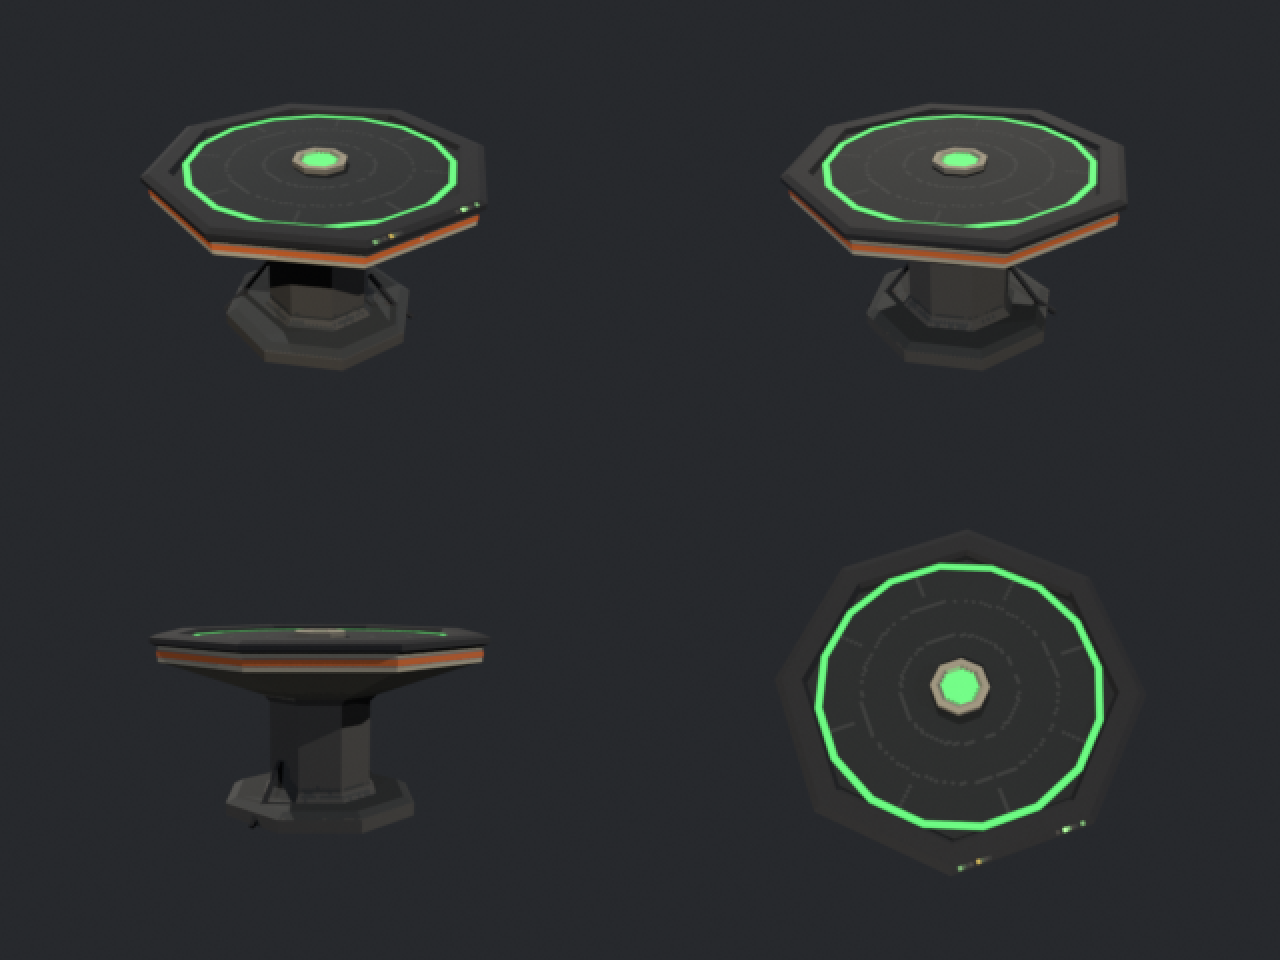
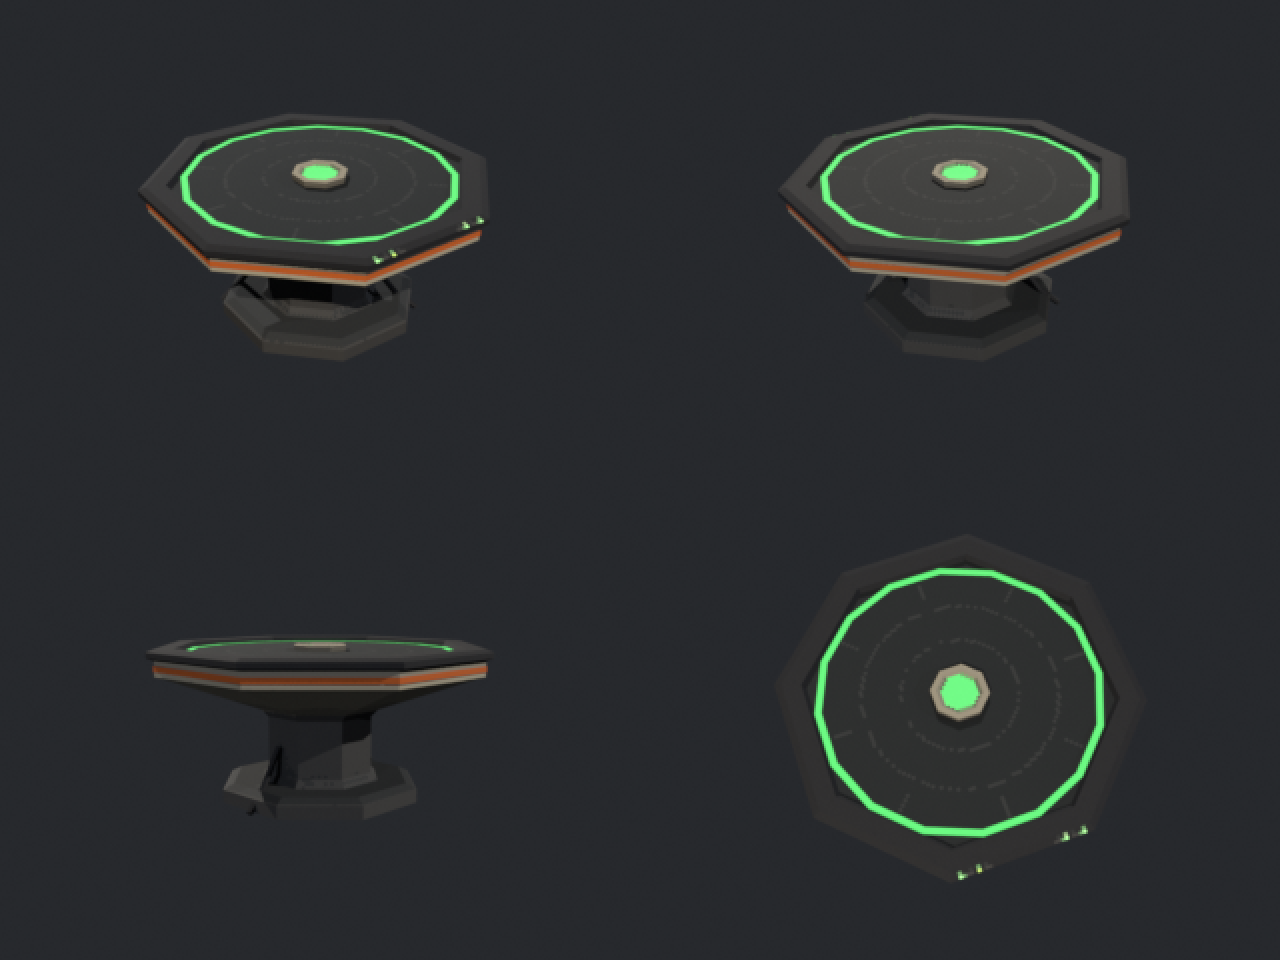
Jump catches every press; the lever's hold forgives a slip; no dais, a lower chart table
- Jump was read with is_action_just_pressed on the 30 Hz movement tick, so most presses fell
  between ticks (0 of 10 in --check-jump); a press is now kept 0.2 s for the tick (10 of 10)
- A hold survives the crosshair slipping off for 0.3 s
- The dais is gone (crew caught on its step); the chart table stands on the deck, its glass at
  0.8 m to look down on
- Dev: --check-jump and --check-lever

diff --git a/art/blender/bridge.py b/art/blender/bridge.py
@@ -439,13 +439,13 @@ def chair():
 
 @asset("br_chart_table", "bridge", texture=256, colors=32, ao=0.5, angles=((-35, 30), (145, 30), (90, 10), (-20, 70)))
 def chart_table():
-    """The chart table at the bridge's heart (GDD §5, §6), on the command dais: the sector chart
-    for the whole crew to stand round. A waist-high octagonal table in the consoles' beige, on a
-    dark column flaring out from a steel plinth; a rubber bumper round its rim. Its top is a dark
-    glass well with etched range rings, a glowing emitter ring at its edge and the projector's lens
-    at its centre; the hologram itself is the game's (`SOCKET_holo`, on the lens). Push buttons on
-    the rim's aft side and a stencil, CHART, on its aft face. The emitter ring and lens glow green. Faces -Y like the consoles (aft in
-    the game), where the crew comes up from the corridor.
+    """The chart table at the bridge's heart (GDD §5, §6), standing on the deck: the sector chart
+    for the whole crew to stand round. A low octagonal table (its glass at 0.8 m, to look down on)
+    on a dark column flaring out from a steel plinth; a beige band and a rubber bumper round its
+    rim. Its top is a dark glass well with etched range rings, a glowing green emitter ring at its
+    edge and the projector's lens at its centre; the hologram itself is the game's (`SOCKET_holo`,
+    on the lens). Push buttons on the rim's aft side and a stencil, CHART, on its aft face. Faces
+    -Y like the consoles (aft in the game), where the crew comes up from the corridor.
     """
     k = _materials()
     dk = _decals()
@@ -454,19 +454,21 @@ def chart_table():
     d = Mesh("br_chart_table_decals")
     texts = []
     eighth = math.pi / 8
-    top = 0.97
+    top = 0.8
     # Plinth, column and the skirt flaring out under the top.
     m.lathe([(0.56, 0.0), (0.56, 0.07), (0.5, 0.1), (0.34, 0.1)], k["dark_steel"], sides=8, angle_offset=eighth,
             cap_start=False, cap_end=False)
-    m.lathe([(0.34, 0.1), (0.3, 0.14), (0.3, 0.62), (0.34, 0.66)], k["casing_dark"], sides=8, angle_offset=eighth,
-            cap_start=False, cap_end=False)
-    m.lathe([(0.34, 0.66), (0.84, 0.84), (0.9, 0.86)], k["casing"], sides=8, angle_offset=eighth,
+    m.lathe([(0.34, 0.1), (0.3, 0.14), (0.3, top - 0.35), (0.34, top - 0.31)], k["casing_dark"], sides=8,
+            angle_offset=eighth, cap_start=False, cap_end=False)
+    m.lathe([(0.34, top - 0.31), (0.84, top - 0.13), (0.9, top - 0.11)], k["casing"], sides=8, angle_offset=eighth,
             cap_start=False, cap_end=False)
     # The rim: a casing band with an orange stripe, the rubber bumper over it.
-    m.lathe([(0.9, 0.86), (0.9, 0.94)], k["casing"], sides=8, angle_offset=eighth, cap_start=False, cap_end=False)
-    m.lathe([(0.905, 0.885), (0.905, 0.915)], k["orange"], sides=8, angle_offset=eighth, cap_start=False, cap_end=False)
-    m.lathe([(0.9, 0.94), (0.94, 0.955), (0.94, 0.985), (0.9, 1.0), (0.8, 1.0), (0.78, top)], k["rubber"], sides=8,
-            angle_offset=eighth, cap_start=False, cap_end=False)
+    m.lathe([(0.9, top - 0.11), (0.9, top - 0.03)], k["casing"], sides=8, angle_offset=eighth, cap_start=False,
+            cap_end=False)
+    m.lathe([(0.905, top - 0.085), (0.905, top - 0.055)], k["orange"], sides=8, angle_offset=eighth, cap_start=False,
+            cap_end=False)
+    m.lathe([(0.9, top - 0.03), (0.94, top - 0.015), (0.94, top + 0.015), (0.9, top + 0.03), (0.8, top + 0.03),
+             (0.78, top)], k["rubber"], sides=8, angle_offset=eighth, cap_start=False, cap_end=False)
     # The glass well, and the lens in its middle.
     m.lathe([(0.78, top), (0.0, top)], glass, sides=8, angle_offset=eighth, cap_start=False, cap_end=False)
     m.lathe([(0.15, top), (0.15, top + 0.03), (0.12, top + 0.035), (0.1, top + 0.02)], k["steel"], sides=8,
@@ -497,17 +499,17 @@ def chart_table():
     # Push buttons on the rim's aft flat, either side of the middle; the stencil on the band below.
     slope = Vector((0, -0.4, 1)).normalized()
     for x in (-0.24, 0.24):
-        rim = (Vector((x, -0.865, 0.992)), slope, Vector((0, 1, 0.4)).normalized())
+        rim = (Vector((x, -0.865, top + 0.022)), slope, Vector((0, 1, 0.4)).normalized())
         buttons(d, dk, rim, (0, 0), 4, 1, pitch=0.042, pattern=(0, 2, 1, 2) if x < 0 else (2, 4, 2, 0))
     face = 0.9 * math.cos(eighth)
-    texts.append(label(dk, "CHART", 0.035, "cream", frame((0, -face - 0.001, 0.9), (0, -1, 0))))
-    # Cables from the column down into the dais.
+    texts.append(label(dk, "CHART", 0.035, "cream", frame((0, -face - 0.001, top - 0.07), (0, -1, 0))))
+    # Cables from the column down into the deck.
     cables(m, k, [[(0.2, -0.22, 0.3), (0.32, -0.3, 0.1), (0.42, -0.36, 0.0)],
                   [(-0.22, 0.2, 0.34), (-0.34, 0.3, 0.12), (-0.46, 0.34, 0.0)]])
     m.subdivide(0.6)
     low = m.to_object()
     collider = Mesh("br_chart_table_col-colonly")
-    collider.lathe([(0.0, 0.0), (0.92, 0.0), (0.92, 1.0), (0.0, 1.0)], mats.plain("collider", (1, 0, 1)), sides=8,
+    collider.lathe([(0.0, 0.0), (0.92, 0.0), (0.92, top + 0.03), (0.0, top + 0.03)], mats.plain("collider", (1, 0, 1)), sides=8,
                    angle_offset=eighth, cap_start=False, cap_end=False)
     holo = _socket("holo", (0, 0, top + 0.03))
     return Model(low=low, decals=[d.to_object()] + texts, extras=[collider.to_object(), holo])

diff --git a/docs/TECH.md b/docs/TECH.md
@@ -224,7 +224,7 @@ deep-space/
   - A test script can't name classes that reach the game's autoloads (they aren't there when it's compiled): it loads them at run time.
 - **Networking:** the multi-instance launch script with netfox's network simulator (latency and packet loss) turned on.
 - **Assets:** turntable previews are reviewed for every generated model; pose sheets (`tools/pose_sheet.py`) for every clip.
-- **Dev flags** for unattended checks (`game/core/dev.gd`): `--check-aim` stands the crew member in front of every terminal and checks the crosshair finds it; `--at`, `--look`, `--belt`, `--hold`, `--move` (with `--sprint`, `--crouch`), `--cuff` and `--lamp` set up a shot; `--take`, `--use` and `--throw` act a second or two in; `--run-seed` picks the run, `--scanned`, `--route` and `--jump` start with the scan done, the first jump plotted, or jumping a second in, and `--derelict` docks the sample derelict at the departure point; `--o2`, `--health` and `--battery` set the suit; `--view` looks from a fixed camera instead; `--screenshot` with `--frames`, `--shots`/`--shot-gap` takes one or a burst; `--wait-crew` holds the shot until that many crew are aboard.
+- **Dev flags** for unattended checks (`game/core/dev.gd`): `--check-aim` stands the crew member in front of every terminal and checks the crosshair finds it; `--check-jump` presses jump ten times and counts take-offs; `--check-lever` holds interact on what's aimed at (the Jump Lever, with `--at`, `--look` and `--route`) and says whether the jump began; `--at`, `--look`, `--belt`, `--hold`, `--move` (with `--sprint`, `--crouch`), `--cuff` and `--lamp` set up a shot; `--take`, `--use` and `--throw` act a second or two in; `--run-seed` picks the run, `--scanned`, `--route` and `--jump` start with the scan done, the first jump plotted, or jumping a second in, and `--derelict` docks the sample derelict at the departure point; `--o2`, `--health` and `--battery` set the suit; `--view` looks from a fixed camera instead; `--screenshot` with `--frames`, `--shots`/`--shot-gap` takes one or a burst; `--wait-crew` holds the shot until that many crew are aboard.
 - **QA tools** (`tools/`), for checking changes by eye in the real game and in Blender:
   - `shot.sh <out> <x,y,z,yaw,pitch>`: one frame from a fixed camera. For the player's own view, run the game with `-- --host --at=… --look=… [--hold/--cuff/--lamp] --screenshot=<out> --frames=150`.
   - `pair.sh <out> "<host flags>" "<client flags>"`: a host and a client on one machine; the host shoots once the client is aboard. With `--view` in the host flags it's the way to see a teammate's suit, held item, beam or glare.
@@ -318,3 +318,7 @@ deep-space/
   - The collar seals when nothing's docked, and both outer hatches are now solid while shut (they had no collider).
   - Tests (§8): sector map rules, determinism and a smoke test that plays a jump; `tools/test.sh` runs them.
 - **2026-10-14: The chart table** (GDD §17, decided 8). `br_chart_table` replaces `br_chair` on the dais (the chair's model stays built, unused). Its hologram (`ChartTable`, at `SOCKET_holo`) redraws the Run's chart every frame: an `ImmediateMesh` of lines for row rails, routes and a ring where the station is, a `Label3D` per charted node in the VT323 pixel font, a fading cone from the lens, and a dim green light. They share `hologram.gdshader` (unshaded, additive, scanlines, a `strength` for the flicker). What glows on the table is modelled with a glowing material, not decals: a 256 texture lost a thin ring to sampling.
+- **2026-10-14: Jumps, the lever's hold, the table lowered.**
+  - Jump (space) was read with `is_action_just_pressed` on the movement tick, which runs 30 times a second, fewer than frames, so most presses fell between ticks (`--check-jump`: 0 of 10 before, 10 of 10 after). A press is now kept 0.2 s for the tick (`JUMP_BUFFER`); pressed just before landing, it jumps on touching down. Other one-off presses are read in `_unhandled_input`, not on the tick.
+  - A hold (the Jump Lever) survives the crosshair slipping off for up to 0.3 s (`HOLD_SLACK`); the handle's box is small.
+  - The dais is gone from the bridge (crew caught on its 16 cm step; the character body doesn't step up), and the chart table is lower (glass at 0.8 m) on the deck. `br_dais` and `br_chair` stay built, unused.

diff --git a/docs/GDD.md b/docs/GDD.md
@@ -76,7 +76,7 @@ The home base is a jump-capable station on a single deck. It is warm, lit and hu
 | **Ops** | Crew status and comms | **Vitals board** (each crew member's heartbeat, O2 and last-known location); station cameras; PA |
 | **Engineering** | Power and drive status | Fuel and drive gauges; power distribution; breaker panel |
 
-The forward viewport looks out onto the system. At the bridge's centre, on the command dais, stands the **chart table**: a waist-high octagonal table whose glass top projects the sector chart as a green hologram, for the whole crew to stand round. It shows what the Nav Chart shows, laid out from the departure point (aft) rising to the boss (fore), like the way ahead through the viewport. It's display only (routes are plotted at the Helm), it flickers and drops out now and then, and it judders in a jump.
+The forward viewport looks out onto the system. At the bridge's centre stands the **chart table**: a low octagonal table (its glass at about thigh height, to look down on) whose glass top projects the sector chart as a green hologram, for the whole crew to stand round. It shows what the Nav Chart shows, laid out from the departure point (aft) rising to the boss (fore), like the way ahead through the viewport. It's display only (routes are plotted at the Helm), it flickers and drops out now and then, and it judders in a jump.
 
 **Rooms:**
 
@@ -453,7 +453,7 @@ The whole Sector 1 map is generated and playable. The boss node exists as a grey
 5. **The light is a helmet lamp from the start** (was A8). Both hands stay free, so the crew can still see while carrying something two-handed. There is no Helmet Lamp upgrade, and no handheld flashlight.
 6. **The belt holds loot as well as gear**, as in *Lethal Company* (§9.4). Two-handed carries stay out of the belt and take both hands.
 7. **The crew starts with one crowbar and one flare between them**, racked in the Docking Port (was A9). Everything else is found. The helmet lamp recharges at a charger in the Suit Room, with no cells.
-8. **A chart table replaces the captain's chair** at the bridge's centre: the chair had no use and took up the room's middle. The table's hologram gives the bridge a centrepiece the whole crew can read.
+8. **A chart table replaces the captain's chair** at the bridge's centre: the chair had no use and took up the room's middle. The table's hologram gives the bridge a centrepiece the whole crew can read. The dais under it is gone too (crew caught on its step), and the table stands low on the deck.
 
 **Working assumptions** (correct me if any are wrong):
 - **A1.** LANTERN *is* the jump vessel. The station travels with you; there is no separate ship.

diff --git a/TODO.md b/TODO.md
@@ -64,8 +64,10 @@ The **gameplay loop's crew half (most of M1, 2026-10-14)**:
   into an empty bay.
 - **Tests:** `tools/test.sh` runs sector map rules, determinism and a smoke test that plays a jump.
 
-- **The chart table:** in place of the captain's chair, on the dais; its green hologram is the
-  sector chart, for the whole crew.
+- **The chart table:** in place of the captain's chair and its dais, standing low on the deck; its
+  green hologram is the sector chart, for the whole crew.
+- **Fixed:** jump (space) missed most presses (read on the 30 Hz movement tick); the Jump Lever's
+  hold no longer drops if the crosshair slips off the handle for a moment.
 
 Still to come: docking, creature behaviour, death.
 
@@ -175,6 +177,7 @@ Still to come: docking, creature behaviour, death.
   | `tools/clip_angles.py` | A clip's bone turns. |
   | `tools/sheet.py` | Contact sheets and crisp crops. |
   | `--check-aim` | Checks every terminal can be used. |
+  | `--check-jump`, `--check-lever` | Presses jump ten times and counts take-offs; holds interact on the aimed thing (the Jump Lever: `--route --at=-1.85,0,-3.2 --look=0,-22`) and says whether the jump began. |
   | `tools/test.sh [name]` | The headless tests: sector map rules, determinism, the smoke test. |
   | `--run-seed=n`, `--scanned`, `--route`, `--jump`, `--derelict` | The run: its seed; scanned, a route plotted, jumping a second in; the sample derelict docked at the start. `--operate=screen_nav` steps up to a terminal. |
 - **Getting around:**
